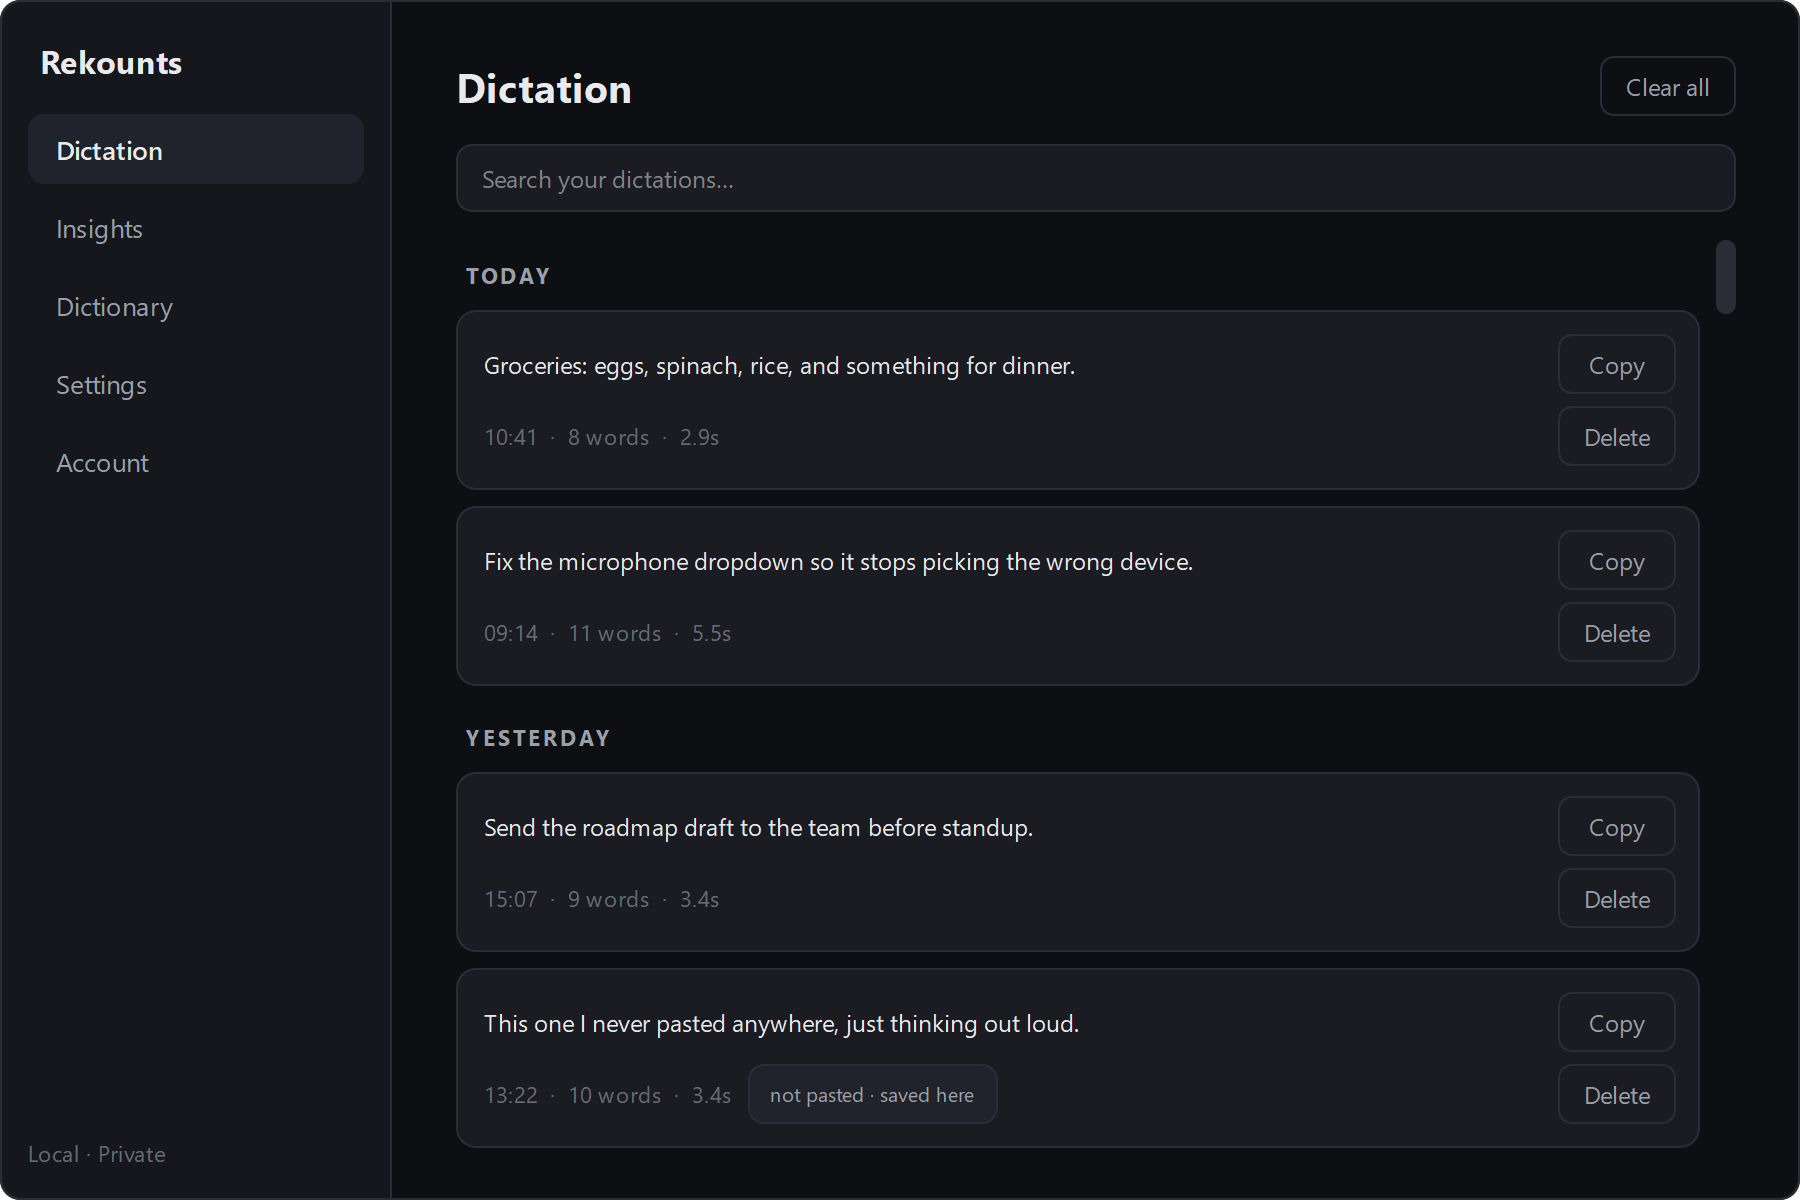
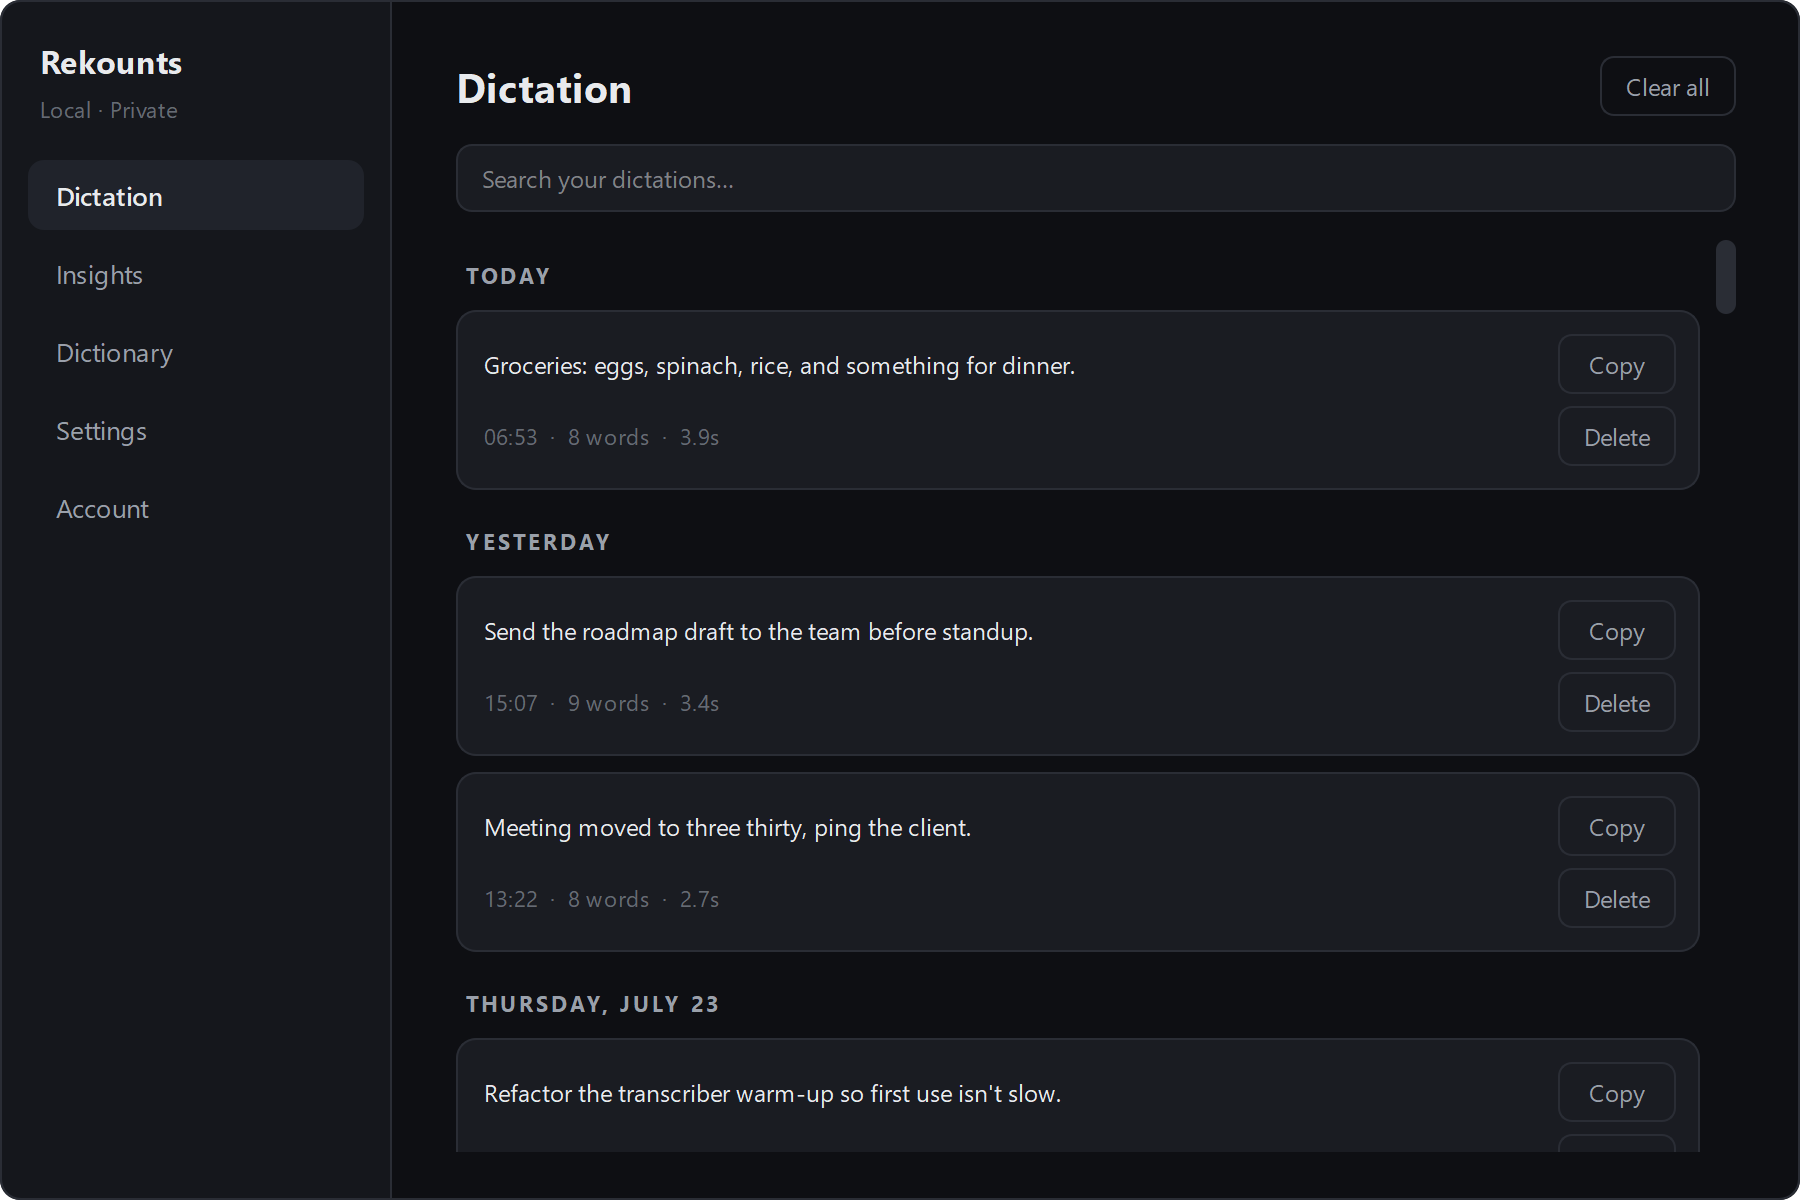
fix(hub): drop the dotted focus box, and give the promise a home
Two sidebar complaints from the owner, both cosmetic, both real.

The nav items took focus on click, so the platform drew its dotted focus
rectangle INSIDE a pill that already says "you are here" — two selection
indicators arguing with each other. They are now TabFocus: clicking no
longer parks keyboard focus on them, while Tab still reaches them and the
theme gives :focus a style in the design's own language, so keyboard
navigation is not stranded. outline:none backs it up.

"Local · Private" moved from the sidebar's bottom edge, where it read as a
stray status line hanging off the profile, to a tagline directly under the
wordmark, where it looks deliberate and is the first thing read.

Honest note on verification: I could not reproduce the dotted rectangle in
a headless probe (an off-screen window is never active, so Qt paints no
focus decoration either way), so the fix is aimed at the reported trigger —
clicking — rather than at a reproduction. The regression test pins the
click-focus policy, and it fails against the previous code.

Hub screenshots regenerated. 1005 passed, 4 skipped, ruff clean.

diff --git a/rekounts/ui/dashboard.py b/rekounts/ui/dashboard.py
@@ -559,8 +559,15 @@ class Dashboard(QtWidgets.QWidget):
         sb.setSpacing(4)
         brand = QtWidgets.QLabel("Rekounts")
         brand.setProperty("role", "brand")
-        brand.setContentsMargins(6, 0, 0, 12)
+        brand.setContentsMargins(6, 0, 0, 0)
         sb.addWidget(brand)
+        # The promise reads as a tagline under the wordmark, where it looks
+        # deliberate. Pinned to the sidebar's bottom edge it read as a stray
+        # status line hanging off the profile.
+        tagline = QtWidgets.QLabel("Local · Private")
+        tagline.setProperty("role", "meta")
+        tagline.setContentsMargins(6, 2, 0, 14)
+        sb.addWidget(tagline)
 
         # Built now (before the pages) so AccountPage can call refresh_profile;
         # added to the sidebar as a footer further down.
@@ -592,6 +599,12 @@ class Dashboard(QtWidgets.QWidget):
             btn = QtWidgets.QPushButton(name)
             btn.setObjectName("NavBtn")
             btn.setCheckable(True)
+            # TabFocus, not StrongFocus: clicking a nav item no longer parks
+            # keyboard focus on it, which is what drew the platform's dotted
+            # focus box inside a pill that already shows the selection. Tab
+            # still reaches these (and :focus in the theme styles them), so
+            # keyboard navigation is intact.
+            btn.setFocusPolicy(QtCore.Qt.TabFocus)
             btn.clicked.connect(lambda _=False, idx=i: self.stack.setCurrentIndex(idx))
             self._nav_group.addButton(btn, i)
             sb.addWidget(btn)
@@ -599,9 +612,6 @@ class Dashboard(QtWidgets.QWidget):
                 btn.setChecked(True)
         sb.addStretch(1)
         sb.addWidget(profile)
-        version = QtWidgets.QLabel("Local · Private")
-        version.setProperty("role", "meta")
-        sb.addWidget(version)
 
         outer.addWidget(sidebar)
         outer.addWidget(self.stack, 1)

diff --git a/tests/test_dashboard.py b/tests/test_dashboard.py
@@ -163,3 +163,31 @@ def test_insights_surfaces_dictation_and_active_day_counts(hub):
     ins_page.refresh()
     assert ins_page.cards["entries_all"].value.text() == "1"
     assert ins_page.cards["active_days"].value.text() == "1"
+
+
+# ============================================================== sidebar chrome (3)
+def test_clicking_a_nav_item_does_not_park_keyboard_focus_on_it(hub):
+    """The platform draws a dotted focus box inside a nav item that holds
+    keyboard focus — on top of a pill that already shows the selection. Nav is
+    reached by clicking, so click-focus buys nothing and costs that artefact."""
+    from PySide6 import QtCore
+    for i in range(len(hub.pages)):
+        policy = hub._nav_group.button(i).focusPolicy()
+        assert not (policy & QtCore.Qt.ClickFocus), "nav item takes focus on click"
+
+
+def test_nav_items_are_still_reachable_by_keyboard(hub):
+    """Killing the focus box must not strand keyboard users: Tab still lands
+    here, and the theme gives :focus a visible style of its own."""
+    from PySide6 import QtCore
+    for i in range(len(hub.pages)):
+        policy = hub._nav_group.button(i).focusPolicy()
+        assert policy & QtCore.Qt.TabFocus, "nav item is not tab-reachable"
+
+
+def test_the_privacy_tagline_sits_under_the_wordmark_exactly_once(hub):
+    from PySide6 import QtWidgets
+    labels = [w for w in hub.findChildren(QtWidgets.QLabel)
+              if w.text() == "Local · Private"]
+    assert len(labels) == 1, "tagline missing or duplicated"
+    assert labels[0].property("role") == "meta"

diff --git a/rekounts/ui/theme.py b/rekounts/ui/theme.py
@@ -60,8 +60,14 @@ QFrame#RowSep {{ background: {BORDER}; border: none; max-height: 1px; }}
 QPushButton#NavBtn {{
     text-align: left; padding: 9px 14px; border: none; border-radius: 8px;
     color: {TEXT_2}; background: transparent; font-size: 13px;
+    /* Kills the platform focus rectangle — a dotted box drawn INSIDE the
+       selected item, on top of a highlight that already says "you are here".
+       Keyboard users are not stranded: :focus below gives them the same
+       affordance as the mouse, in the design's own language. */
+    outline: none;
 }}
 QPushButton#NavBtn:hover {{ background: {CARD}; color: {TEXT}; }}
+QPushButton#NavBtn:focus {{ background: {CARD}; color: {TEXT}; outline: none; }}
 QPushButton#NavBtn:checked {{ background: {CARD_HI}; color: {TEXT}; font-weight: 600; }}
 
 QLineEdit {{
